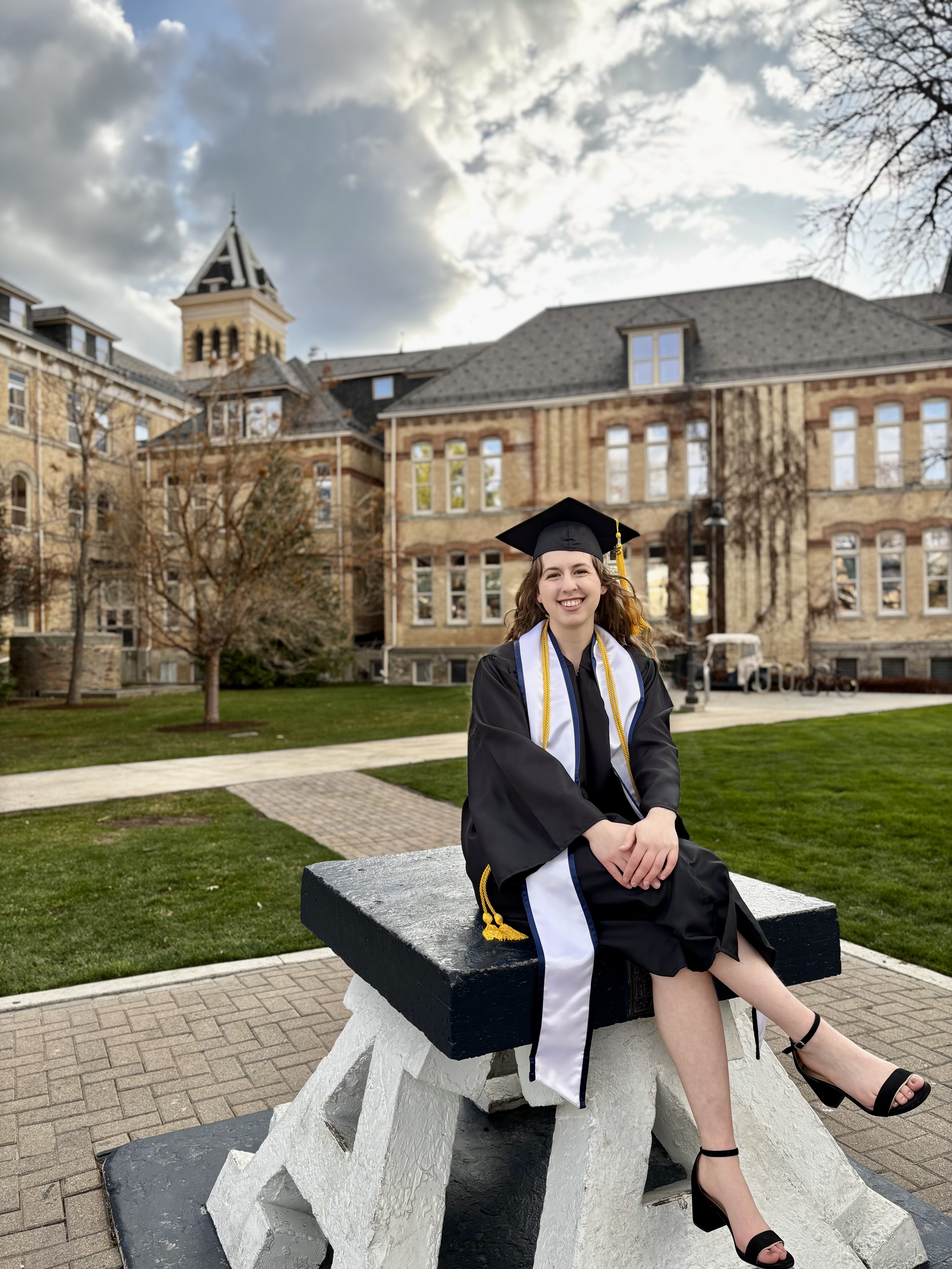
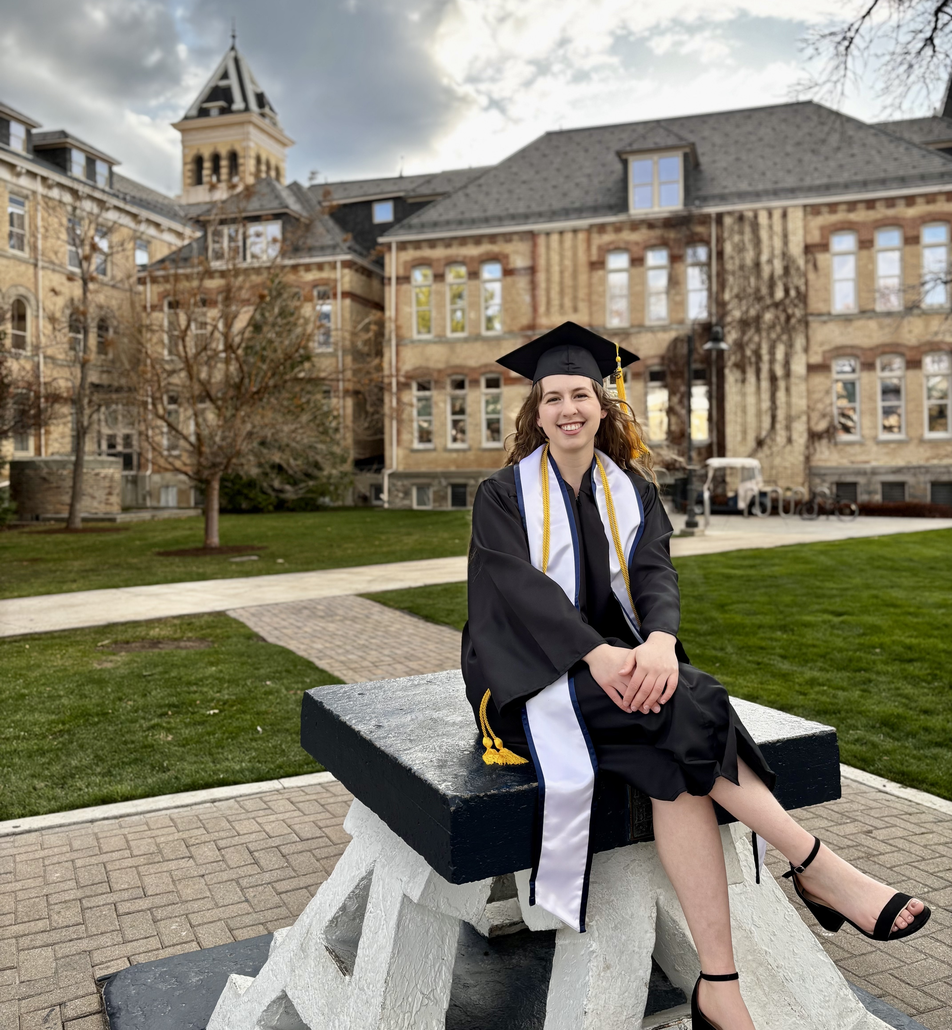
Fixing image ratios

diff --git a/src/App.css b/src/App.css
@@ -1,7 +1,7 @@
 #root {
-  max-width: 1280px;
   margin: 0 auto;
   text-align: center;
+  padding: 5px;
 }
 
 .headshot {
@@ -70,7 +70,8 @@
 }
 
 .text-container {
-  margin-left: 8%;
+  margin-left: 20%;
+  text-align: right;
 }
 
 .image, .text-container {
@@ -184,7 +185,7 @@
 }
 
 .box-image {
-  width: 90%;
+  width: 80%;
   object-fit: cover;
   margin-bottom: -5px;
 }

diff --git a/src/components/Education.tsx b/src/components/Education.tsx
@@ -1,5 +1,5 @@
 
-import usu from '../assets/usu-2.jpg'
+import usu from '../assets/usu.jpeg'
 import grad from '../assets/grad.jpeg'
 
 interface BoxProps {

diff --git a/src/components/Intro.tsx b/src/components/Intro.tsx
@@ -41,7 +41,7 @@ function Intro() {
         </div>
       </>
     )
-  }
+}
   
   export default Intro
   
